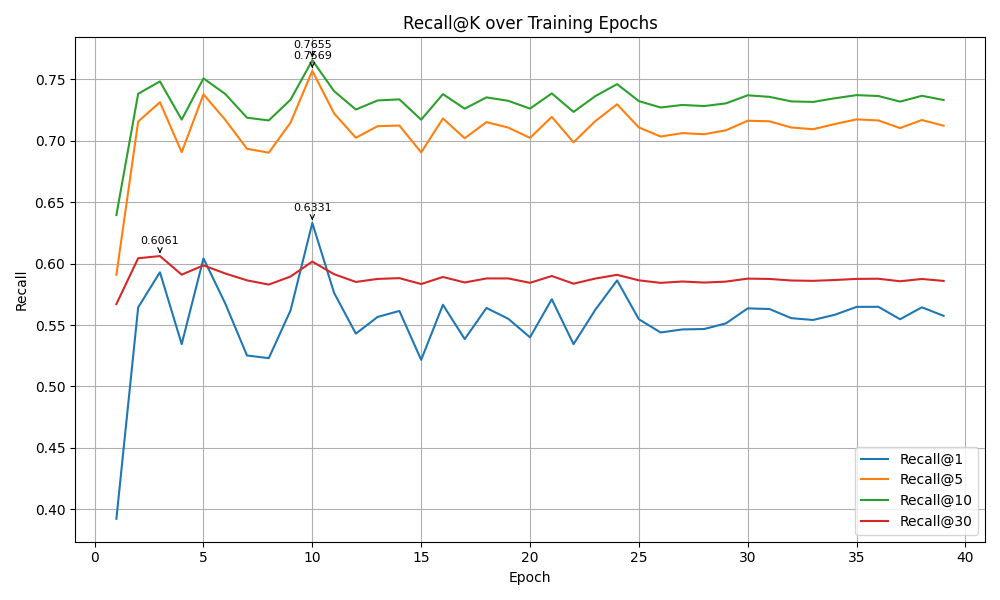
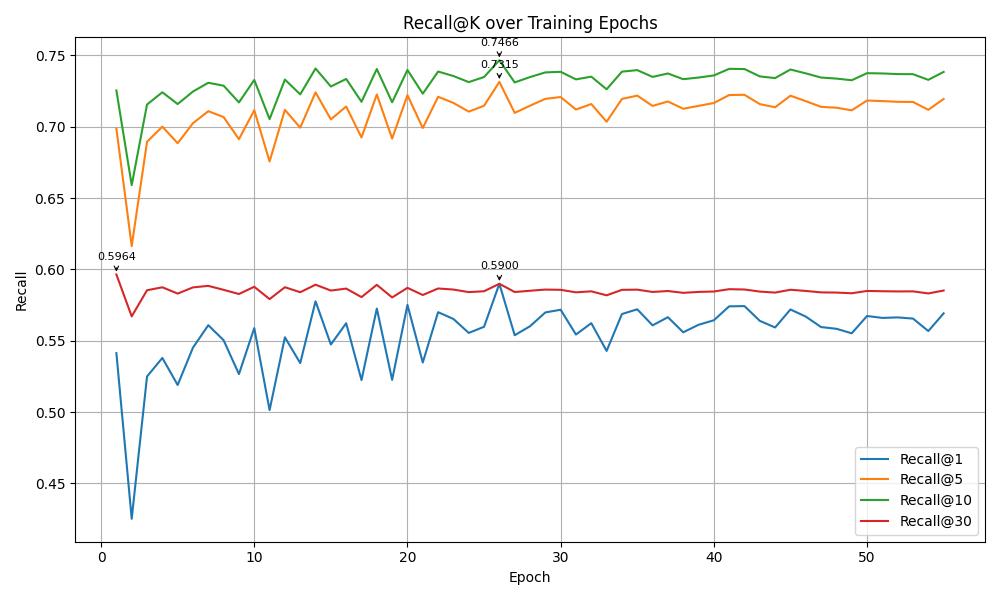
before record best culster_recall@10

diff --git a/src/model/cluster_dist_transformer.py b/src/model/cluster_dist_transformer.py
@@ -171,12 +171,30 @@ class ClusterDistTransformer(nn.Module):
         return logits  # raw logits; apply log_softmax/softmax outside as needed
 
 
+def topk_recall(pred_prob: torch.Tensor, label_prob: torch.Tensor, k: int = 10) -> float:
+    """
+    Compute Top-K recall over a batch.
+    pred_prob: (B, K)
+    label_prob: (B, K)
+    Returns average recall@k in [0,1].
+    """
+    topk_pred = torch.topk(pred_prob, k, dim=1).indices  # (B, k)
+    top_true = torch.topk(label_prob, k, dim=1).indices  # (B, k)
+    recall_sum = 0.0
+    B = pred_prob.size(0)
+    for i in range(B):
+        intersect = len(set(topk_pred[i].tolist()) & set(top_true[i].tolist()))
+        recall_sum += intersect / float(k)
+    return recall_sum / float(B)
+
+
 @torch.no_grad()
-def evaluate(model: nn.Module, loader: DataLoader, device: torch.device) -> Tuple[float, float, float]:
+def evaluate(model: nn.Module, loader: DataLoader, device: torch.device, topk: int = 10) -> Tuple[float, float, float, float]:
     model.eval()
     kldiv = nn.KLDivLoss(reduction="batchmean")
     mae_meter, mse_meter, kld_meter = 0.0, 0.0, 0.0 # 
     total = 0
+    recall_meter = 0.0
     for x, y in loader:
         x = x.to(device)
         y = y.to(device)
@@ -186,12 +204,14 @@ def evaluate(model: nn.Module, loader: DataLoader, device: torch.device) -> Tupl
         loss_kld = kldiv(log_probs, y)
         mae = torch.mean(torch.abs(preds - y))
         mse = torch.mean((preds - y) ** 2)
+        recall = topk_recall(preds, y, k=topk)
         bs = x.size(0)
         kld_meter += loss_kld.item() * bs
         mae_meter += mae.item() * bs
         mse_meter += mse.item() * bs
+        recall_meter += recall * bs
         total += bs
-    return kld_meter / total, mae_meter / total, mse_meter / total
+    return kld_meter / total, mae_meter / total, mse_meter / total, recall_meter / total
 
 
 def train(
@@ -205,6 +225,7 @@ def train(
     grad_clip: float = 1.0,
     amp: bool = True,
     save_dir: Optional[str] = None,
+    save_name: str = "best.pt",
 ):
     model.train()
     opt = torch.optim.AdamW(model.parameters(), lr=lr, weight_decay=weight_decay)
@@ -239,19 +260,19 @@ def train(
         train_loss = running / n
 
         if val_loader is not None:
-            val_kld, val_mae, val_mse = evaluate(model, val_loader, device)
-            print(f"epoch {ep:03d} | train_kld={train_loss:.6f} | val_kld={val_kld:.6f} | val_mae={val_mae:.6f} | val_mse={val_mse:.6f}")
+            val_kld, val_mae, val_mse, val_recall = evaluate(model, val_loader, device, topk=10)
+            print(f"epoch {ep:03d} | train_kld={train_loss:.6f} | val_kld={val_kld:.6f} | val_mae={val_mae:.6f} | val_mse={val_mse:.6f} | recall@10={val_recall:.4f}")
             if val_kld < best_val and save_dir:
                 best_val = val_kld
                 torch.save(
                     {"model": model.state_dict(), "epoch": ep, "val_kld": val_kld},
-                    os.path.join(save_dir, "best.pt"),
+                    os.path.join(save_dir, save_name),
                 )
         else:
             print(f"epoch {ep:03d} | train_kld={train_loss:.6f}")
 
     if val_loader is not None and save_dir:
-        print(f"best val_kld: {best_val:.6f} (saved to {os.path.join(save_dir, 'best.pt')})")
+        print(f"best val_kld: {best_val:.6f} (saved to {os.path.join(save_dir, save_name)})")
 
 
 def build_loaders(
@@ -325,7 +346,6 @@ def parse_args():
     p.add_argument("--grad_clip", type=float, default=1.0, help="Gradient clipping (max norm)")
     p.add_argument("--num_workers", type=int, default=4, help="DataLoader workers")
     p.add_argument("--seed", type=int, default=42, help="Random seed")
-    p.add_argument("--save_dir", type=str, default="./runs/cluster_dist_transformer", help="Directory to save checkpoints and logs")
     # model
     p.add_argument("--d_model", type=int, default=256, help="Transformer hidden size")
     p.add_argument("--nhead", type=int, default=8, help="Number of attention heads")
@@ -335,6 +355,7 @@ def parse_args():
     p.add_argument("--max_len", type=int, default=4096, help="Maximum supported sequence length")
     p.add_argument("--score_type", type=str, default="bilinear", choices=["bilinear", "mlp"], help="Scoring function type")
     p.add_argument("--no_amp", action="store_true", help="Disable mixed precision")
+    p.add_argument("--topk", type=int, default=10, help="Top-K for recall metric")
     return p.parse_args()
 
 
@@ -342,7 +363,6 @@ def main():
     args = parse_args()
     set_seed(args.seed)
     device = torch.device("cuda" if torch.cuda.is_available() else "cpu")
-    os.makedirs(args.save_dir, exist_ok=True)
 
     if args.gen_synth:
         queries, centroids, targets = make_synth_dataset(args.synth_n, args.synth_K, args.synth_D)
@@ -373,6 +393,9 @@ def main():
     # Determine dimensions solely from centroids
     K, D = C.shape
     print(f"Detected K={K}, D={D}")
+    # Save checkpoints next to the centroids file
+    ckpt_dir = os.path.dirname(args.centroids_path)
+    os.makedirs(ckpt_dir, exist_ok=True)
 
     train_loader, val_loader = build_loaders(
         args.train_npz,
@@ -396,6 +419,12 @@ def main():
         score_type=args.score_type,
     ).to(device)
 
+    # Build a descriptive checkpoint name using key hyperparameters
+    ckpt_name = (
+        f"model_d{args.d_model}_L{args.num_layers}_H{args.nhead}_ff{args.dim_ff}"
+        f"_bs{args.batch_size}_ep{args.epochs}_lr{args.lr}_wd{args.weight_decay}_{args.score_type}.pt"
+    )
+
     train(
         model=model,
         train_loader=train_loader,
@@ -406,13 +435,14 @@ def main():
         weight_decay=args.weight_decay,
         grad_clip=args.grad_clip,
         amp=not args.no_amp,
-        save_dir=args.save_dir,
+        save_dir=ckpt_dir,
+        save_name=ckpt_name,
     )
 
     # Evaluation (if test set is provided)
     if args.test_npz:
         # Reload the best checkpoint if available
-        best_path = os.path.join(args.save_dir, "best.pt")
+        best_path = os.path.join(ckpt_dir, ckpt_name)
         if os.path.exists(best_path):
             ckpt = torch.load(best_path, map_location=device)
             model.load_state_dict(ckpt["model"])
@@ -429,8 +459,8 @@ def main():
 
         test_ds = NPZClusterDataset(args.test_npz, normalize=args.normalize, mean=mean, std=std, centroids=C)
         test_loader = DataLoader(test_ds, batch_size=args.batch_size, shuffle=False, num_workers=args.num_workers, pin_memory=True)
-        kld, mae, mse = evaluate(model, test_loader, device)
-        print(f"[TEST] kld={kld:.6f} | mae={mae:.6f} | mse={mse:.6f}")
+        kld, mae, mse, recall = evaluate(model, test_loader, device, topk=args.topk)
+        print(f"[TEST] kld={kld:.6f} | mae={mae:.6f} | mse={mse:.6f} | recall@{args.topk}={recall:.4f}")
 
 
 if __name__ == "__main__":
@@ -444,8 +474,15 @@ python -m src.model.cluster_dist_transformer \
   --train_npz /home/xln/PycharmProjects/PredictLeafNode/input/Training_data/gist1M_learn/leafsize20k/train_gist.npz \
   --centroids_path /home/xln/PycharmProjects/PredictLeafNode/input/Training_data/gist1M_learn/leafsize20k/centroids.npy \
   --val_split 0.1 \
-  --normalize \
-  --epochs 20 \
+  --topk 10 \
+  --epochs 150 \
   --batch_size 256 \
-  --save_dir /home/xln/PycharmProjects/PredictLeafNode/runs/gist_cluster_transformer
+  --lr 1e-3 \
+  --weight_decay 1e-2 \
+  --d_model 512 \
+  --nhead 8 \
+  --num_layers 4 \
+  --dim_ff 1024 \
+  --dropout 0.1 \
+  --score_type bilinear
 """
